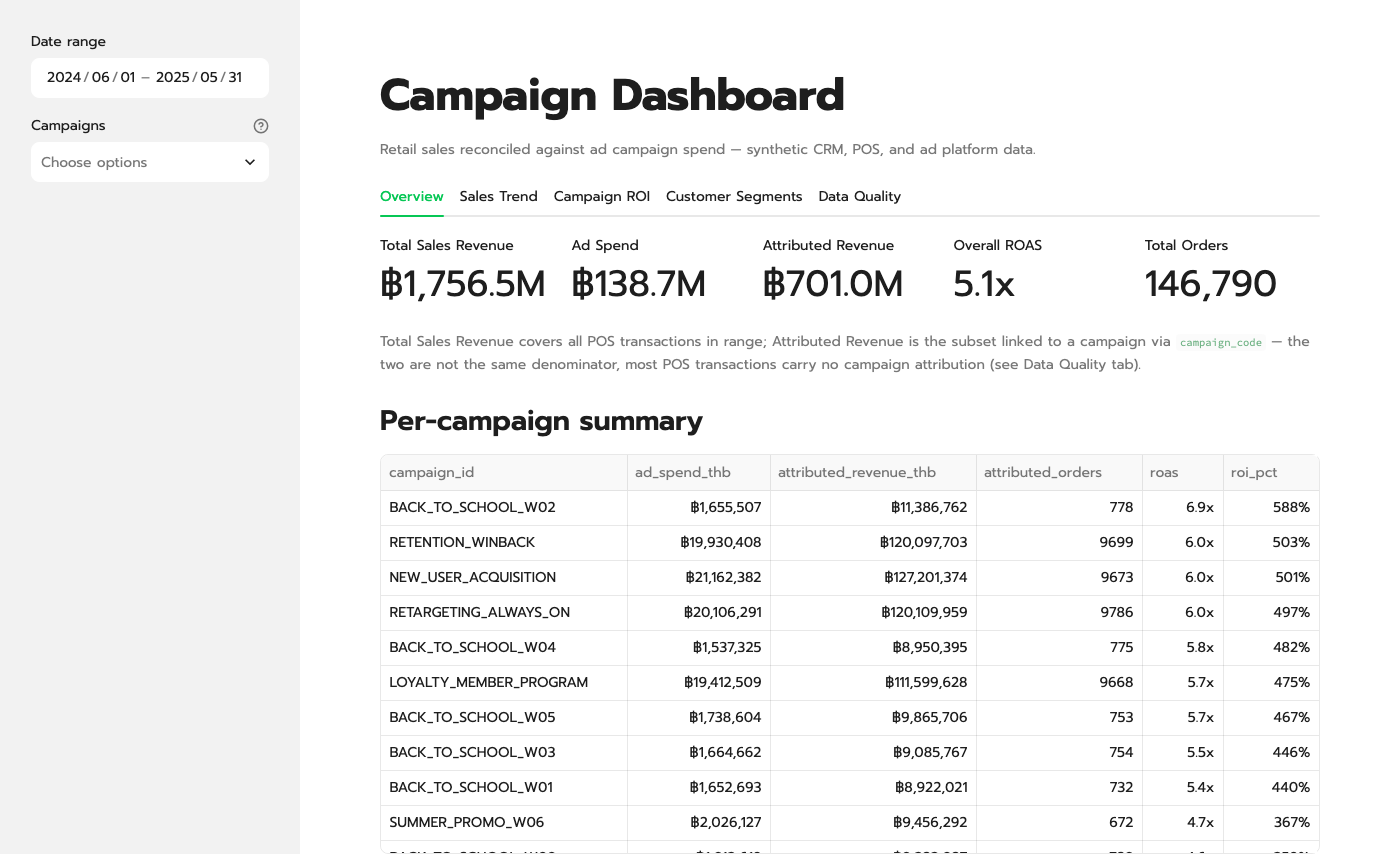
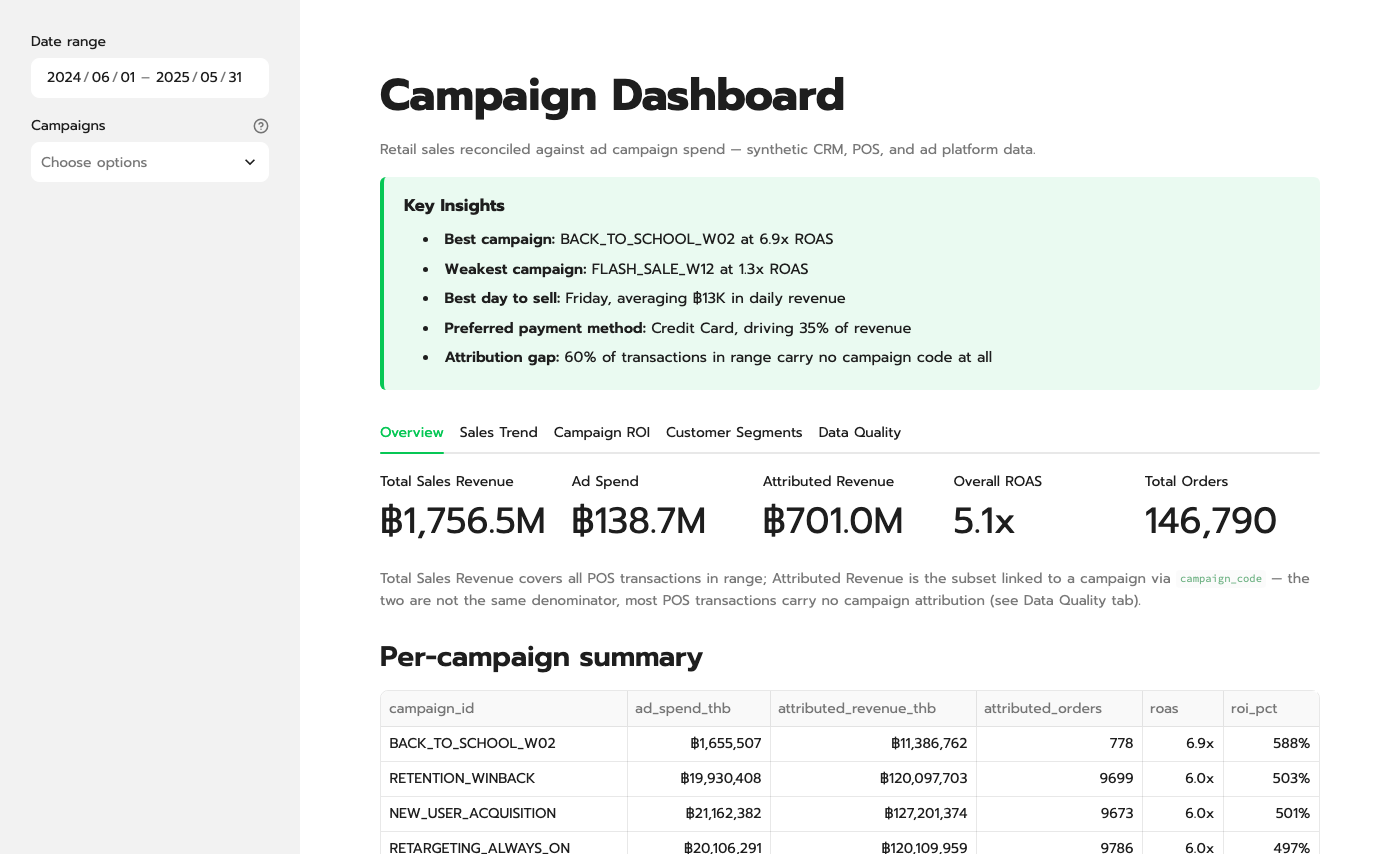
Add key insights, seasonality

diff --git a/app.py b/app.py
@@ -30,6 +30,14 @@ def style_fig(fig):
     return fig
 
 
+def compact_thb(value: float) -> str:
+    if abs(value) >= 1_000_000:
+        return f"฿{value / 1_000_000:,.1f}M"
+    if abs(value) >= 1_000:
+        return f"฿{value / 1_000:,.0f}K"
+    return f"฿{value:,.0f}"
+
+
 @st.cache_data
 def load_data():
     unified_sales = pd.read_csv(DATA_DIR / "unified_sales.csv", parse_dates=["transaction_datetime"])
@@ -76,6 +84,40 @@ mask = (
 sales = unified_sales[mask].copy()
 sales_no_returns = sales[~sales["is_return"]]
 
+# --- Key Insights -------------------------------------------------------------
+if not sales_no_returns.empty and not campaign_summary.empty:
+    best_campaign = campaign_summary.loc[campaign_summary["roas"].idxmax()]
+    worst_campaign = campaign_summary.loc[campaign_summary["roas"].idxmin()]
+
+    dow_revenue = (
+        sales_no_returns.assign(day_of_week=sales_no_returns["transaction_datetime"].dt.day_name())
+        .groupby("day_of_week")["net_amount_thb"].mean()
+    )
+    best_day = dow_revenue.idxmax()
+
+    payment_revenue = sales_no_returns.groupby("payment_method")["net_amount_thb"].sum().sort_values(ascending=False)
+    top_payment = payment_revenue.index[0]
+    top_payment_share = payment_revenue.iloc[0] / payment_revenue.sum() * 100
+
+    unattributed_share = sales["campaign_id"].isna().mean() * 100
+
+    st.markdown(
+        f"""
+        <div style="background:{LINE_GREEN}15; border-left:4px solid {LINE_GREEN}; border-radius:6px;
+                    padding:1rem 1.25rem; margin-bottom:1.5rem; font-family:{CHART_FONT};">
+            <div style="font-weight:700; font-size:1.05rem; margin-bottom:0.4rem;">Key Insights</div>
+            <ul style="margin:0; padding-left:1.2rem; line-height:1.8; font-size:0.92rem;">
+                <li><b>Best campaign:</b> {best_campaign["campaign_id"]} at {best_campaign["roas"]:.1f}x ROAS</li>
+                <li><b>Weakest campaign:</b> {worst_campaign["campaign_id"]} at {worst_campaign["roas"]:.1f}x ROAS</li>
+                <li><b>Best day to sell:</b> {best_day}, averaging {compact_thb(dow_revenue.max())} in daily revenue</li>
+                <li><b>Preferred payment method:</b> {top_payment}, driving {top_payment_share:.0f}% of revenue</li>
+                <li><b>Attribution gap:</b> {unattributed_share:.0f}% of transactions in range carry no campaign code at all</li>
+            </ul>
+        </div>
+        """,
+        unsafe_allow_html=True,
+    )
+
 tab_overview, tab_trend, tab_roi, tab_segments, tab_quality = st.tabs(
     ["Overview", "Sales Trend", "Campaign ROI", "Customer Segments", "Data Quality"]
 )
@@ -88,13 +130,6 @@ with tab_overview:
     total_orders = sales["transaction_id"].nunique()
     total_customers = crm_clean["cust_id"].nunique()
     overall_roas = attributed_revenue / total_ad_spend if total_ad_spend else float("nan")
-
-    def compact_thb(value: float) -> str:
-        if abs(value) >= 1_000_000:
-            return f"฿{value / 1_000_000:,.1f}M"
-        if abs(value) >= 1_000:
-            return f"฿{value / 1_000:,.0f}K"
-        return f"฿{value:,.0f}"
 
     c1, c2, c3, c4, c5 = st.columns(5)
     c1.metric("Total Sales Revenue", compact_thb(total_revenue))
@@ -149,6 +184,35 @@ with tab_trend:
         color_discrete_map={"Attributed": LINE_GREEN, "Not attributed": LINE_GREY},
     )
     st.plotly_chart(style_fig(fig2), width="stretch")
+
+    col_dow, col_month = st.columns(2)
+    with col_dow:
+        st.subheader("Revenue by day of week")
+        dow_order = ["Monday", "Tuesday", "Wednesday", "Thursday", "Friday", "Saturday", "Sunday"]
+        by_dow = (
+            sales_no_returns.assign(day_of_week=sales_no_returns["transaction_datetime"].dt.day_name())
+            .groupby("day_of_week", as_index=False)["net_amount_thb"].sum()
+        )
+        by_dow["day_of_week"] = pd.Categorical(by_dow["day_of_week"], categories=dow_order, ordered=True)
+        by_dow = by_dow.sort_values("day_of_week")
+        fig_dow = px.bar(
+            by_dow, x="day_of_week", y="net_amount_thb",
+            labels={"net_amount_thb": "Revenue (THB)", "day_of_week": ""},
+            color_discrete_sequence=[LINE_GREEN],
+        )
+        st.plotly_chart(style_fig(fig_dow), width="stretch")
+    with col_month:
+        st.subheader("Revenue by month")
+        by_month = (
+            sales_no_returns.assign(month=sales_no_returns["transaction_datetime"].dt.to_period("M").astype(str))
+            .groupby("month", as_index=False)["net_amount_thb"].sum()
+        )
+        fig_month = px.bar(
+            by_month, x="month", y="net_amount_thb",
+            labels={"net_amount_thb": "Revenue (THB)", "month": ""},
+            color_discrete_sequence=[LINE_GREEN],
+        )
+        st.plotly_chart(style_fig(fig_month), width="stretch")
 
 # --- Campaign ROI -----------------------------------------------------------
 with tab_roi:
@@ -242,6 +306,38 @@ with tab_segments:
     st.caption(
         "Segment/region are only known for transactions linked to a CRM customer — walk-in sales "
         "and orphan customer_ref rows are excluded from these two charts."
+    )
+
+    col3, col4 = st.columns(2)
+    with col3:
+        st.subheader("Revenue by payment method")
+        by_payment = sales_no_returns.dropna(subset=["payment_method"]).groupby(
+            "payment_method", as_index=False
+        )["net_amount_thb"].sum()
+        fig_payment = px.pie(
+            by_payment, names="payment_method", values="net_amount_thb",
+            color_discrete_sequence=GREEN_RAMP,
+        )
+        st.plotly_chart(style_fig(fig_payment), width="stretch")
+    with col4:
+        st.subheader("Payment mix by customer segment")
+        seg_payment = (
+            sales_no_returns.dropna(subset=["customer_segment", "payment_method"])
+            .groupby(["customer_segment", "payment_method"], as_index=False)["net_amount_thb"].sum()
+        )
+        seg_payment["pct_of_segment"] = (
+            seg_payment["net_amount_thb"] / seg_payment.groupby("customer_segment")["net_amount_thb"].transform("sum") * 100
+        )
+        fig_seg_pay = px.bar(
+            seg_payment, x="customer_segment", y="pct_of_segment", color="payment_method", barmode="stack",
+            labels={"pct_of_segment": "% of segment revenue", "customer_segment": "", "payment_method": ""},
+            color_discrete_sequence=GREEN_RAMP,
+        )
+        st.plotly_chart(style_fig(fig_seg_pay), width="stretch")
+
+    st.caption(
+        "Payment mix is normalized to % of each segment's own revenue, so the comparison shows "
+        "preference patterns rather than which segment simply spends more."
     )
 
 # --- Data Quality -------------------------------------------------------------

diff --git a/README.md b/README.md
@@ -200,7 +200,14 @@ page sourced directly from `quality_report.json` — so the "what was cleaned" n
 from what the pipeline actually did. A sidebar date-range and campaign filter applies across the
 Overview/Trend/Segment tabs.
 
-**Result:** verified locally with `streamlit run app.py` — all 5 tabs render, 7 charts + 5 tables
+A **Key Insights** callout above the tabs auto-generates 5 bullet points (best/weakest campaign by
+ROAS, best day to sell, preferred payment method, attribution gap) directly from the filtered data —
+nothing here is hand-typed either, so it stays correct as the date-range/campaign filters change.
+The Sales Trend tab adds day-of-week and month-over-month revenue charts (meaningful now that the
+dataset spans a full year), and Customer Segments adds a payment-method breakdown plus a
+segment-normalized payment-mix chart.
+
+**Result:** verified locally with `streamlit run app.py` — all 5 tabs render, 11 charts + 5 tables
 populate, zero exceptions and zero browser console errors, including at the current 40-campaign /
 163,058-row scale.
 
